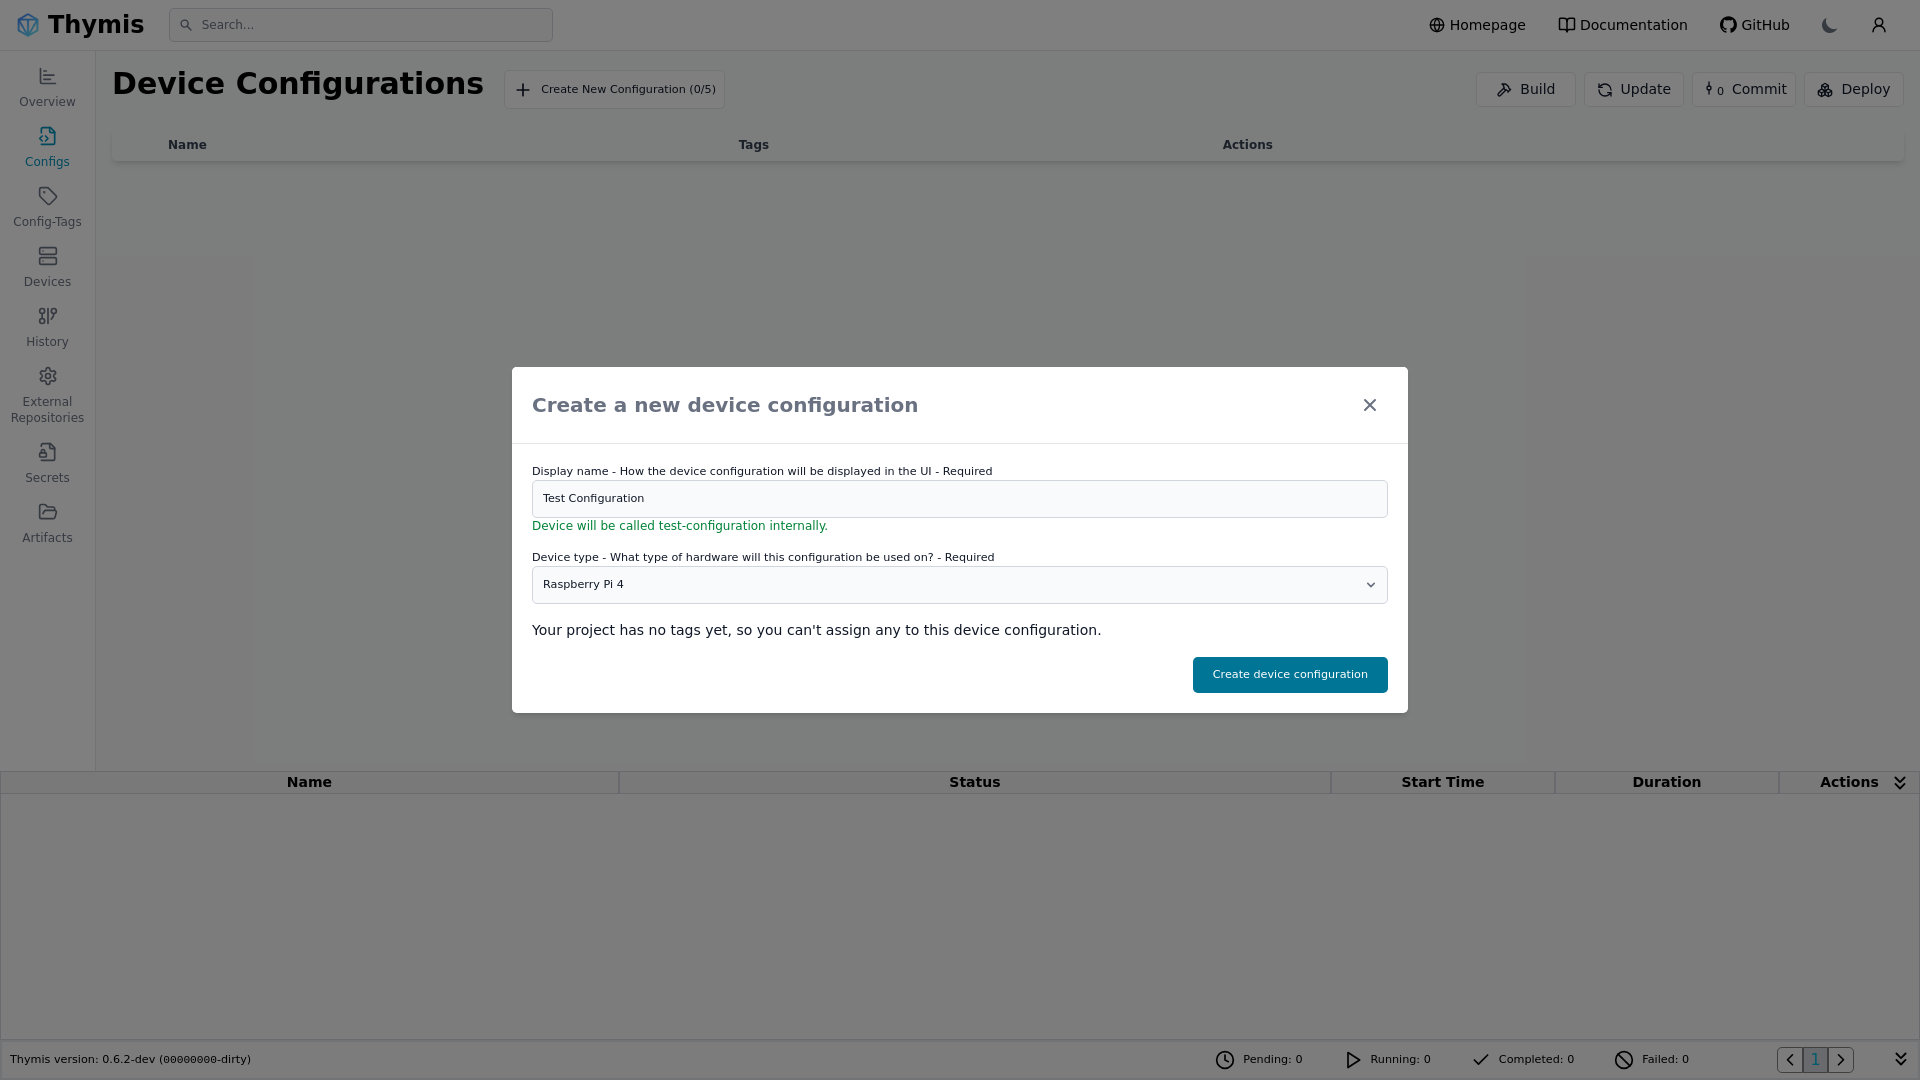
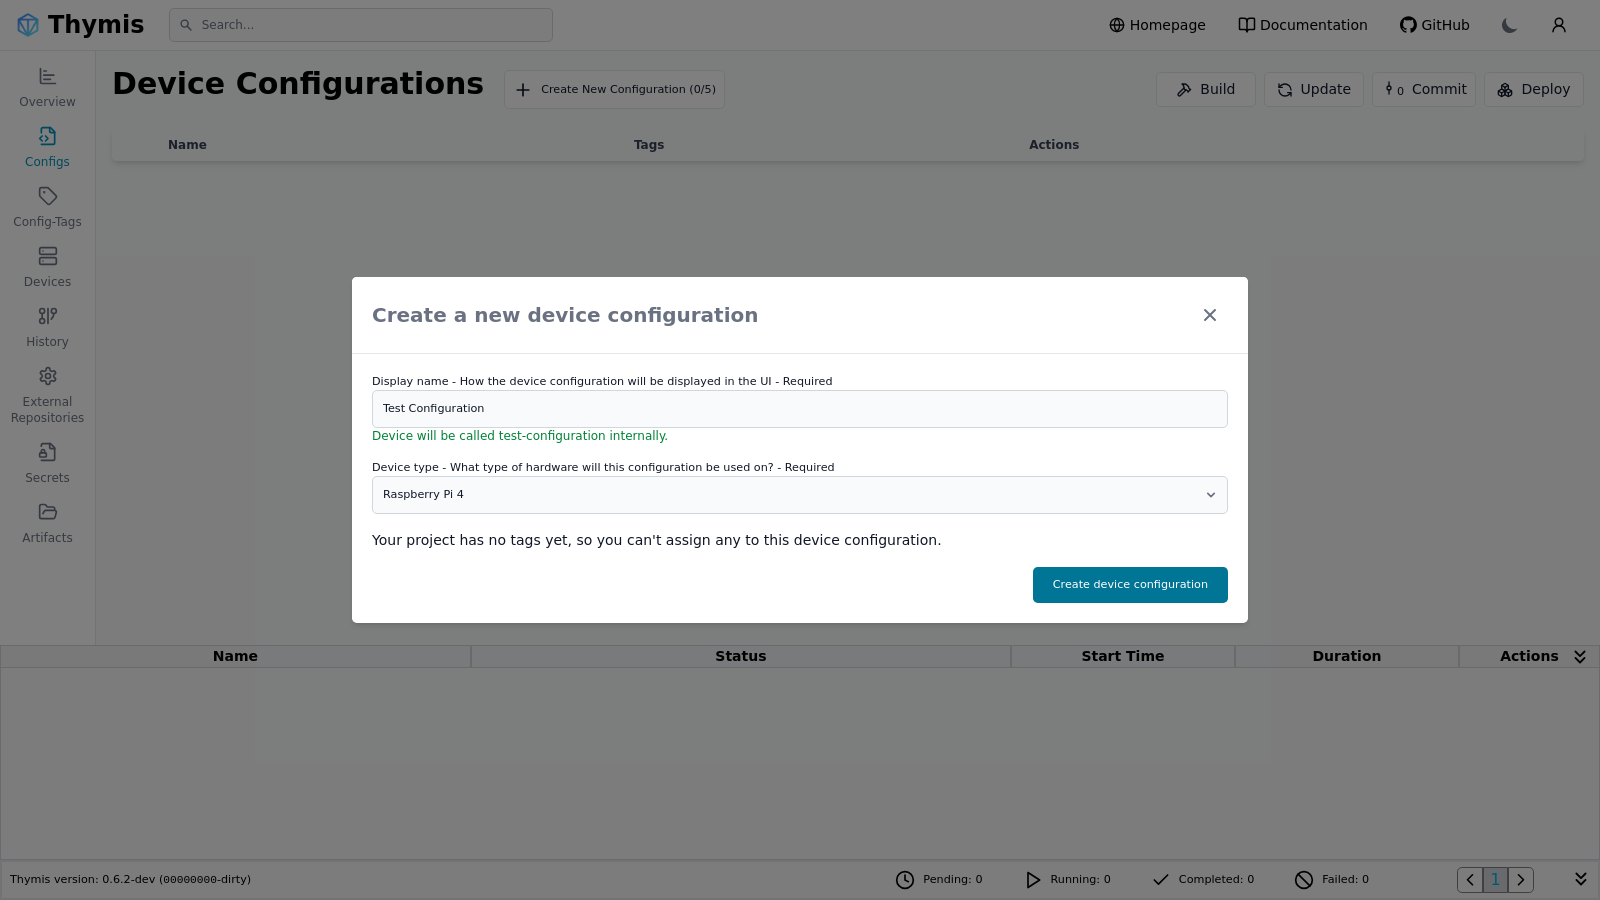
docs: add screenshots for device provisioning

diff --git a/frontend/tests/utils.ts b/frontend/tests/utils.ts
@@ -18,7 +18,7 @@ type MyHighlightOptions = {
 
 export const highlightLocator = async (
 	screenshotTarget: Page | Locator,
-	locator: Locator,
+	locator: Locator | Locator[],
 	options: Partial<MyHighlightOptions> = {}
 ) => {
 	const defaultOptions = {
@@ -28,61 +28,74 @@ export const highlightLocator = async (
 		marginScreenshot: 32
 	};
 	const myOptions: MyHighlightOptions = { ...defaultOptions, ...options };
-	const boundingBox = await locator.boundingBox();
-	if (!boundingBox) {
-		console.warn(`Bounding box not found for locator: ${locator}`);
-		return myOptions.screenshotHighlightedElement ? locator : screenshotTarget;
-	}
-	if (myOptions.marginScreenshot && !myOptions.screenshotHighlightedElement) {
-		console.warn('marginScreenshot is only used when screenshotHighlightedElement is true');
-	}
-	if (
-		myOptions.screenshotHighlightedElement &&
-		myOptions.marginHighlight &&
-		myOptions.marginScreenshot &&
-		myOptions.marginHighlight > myOptions.marginScreenshot
-	) {
-		console.warn(
-			'marginHighlight should be smaller than or equal to marginScreenshot, otherwise the screenshot will be cropped without the highlight'
-		);
-	}
-	// add element with marginally bigger size
-	const page = 'page' in screenshotTarget ? screenshotTarget.page() : screenshotTarget;
-	if (myOptions.highlight) {
-		page.evaluate(`
-		const highlightDiv = document.createElement('div');
-		highlightDiv.className = 'playwright-highlight';
-		highlightDiv.style.position = 'absolute';
-		highlightDiv.style.border = '2px solid red';
-		highlightDiv.style.top = '${boundingBox.y - myOptions.marginHighlight!}px';
-		highlightDiv.style.left = '${boundingBox.x - myOptions.marginHighlight!}px';
-		highlightDiv.style.width = '${boundingBox.width + 2 * myOptions.marginHighlight!}px';
-		highlightDiv.style.height = '${boundingBox.height + 2 * myOptions.marginHighlight!}px';
-		highlightDiv.style.zIndex = '999999';
-		document.body.appendChild(highlightDiv);
-	`);
-	}
-	if (myOptions.screenshotHighlightedElement) {
-		const myId = Math.random().toString(36).substring(7);
-		// Make a new div with the same size as the bounding box, and take a screenshot of that
-		await page.evaluate(
-			`
-		const screenshotDiv = document.createElement('div');
-		screenshotDiv.id = '${myId}';
-		screenshotDiv.className = 'playwright-highlight';
-		screenshotDiv.style.position = 'absolute';
-		screenshotDiv.style.top = '${boundingBox.y - myOptions.marginScreenshot!}px';
-		screenshotDiv.style.left = '${boundingBox.x - myOptions.marginScreenshot!}px';
-		screenshotDiv.style.width = '${boundingBox.width + 2 * myOptions.marginScreenshot!}px';
-		screenshotDiv.style.height = '${boundingBox.height + 2 * myOptions.marginScreenshot!}px';
-		screenshotDiv.style.zIndex = '999999';
-		document.body.appendChild(screenshotDiv);
-	`
-		);
 
-		return page.locator(`#${myId}`);
+	let locators: Locator[] = [];
+	if (Array.isArray(locator)) {
+		locators = locator;
+	} else {
+		locators = [locator];
 	}
-	return myOptions.screenshotHighlightedElement ? locator : screenshotTarget;
+
+	for (const locator of locators) {
+		const boundingBox = await locator.boundingBox();
+		if (!boundingBox) {
+			console.warn(`Bounding box not found for locator: ${locator}`);
+			return myOptions.screenshotHighlightedElement ? locator : screenshotTarget;
+		}
+		if (myOptions.marginScreenshot && !myOptions.screenshotHighlightedElement) {
+			console.warn('marginScreenshot is only used when screenshotHighlightedElement is true');
+		}
+		if (
+			myOptions.screenshotHighlightedElement &&
+			myOptions.marginHighlight &&
+			myOptions.marginScreenshot &&
+			myOptions.marginHighlight > myOptions.marginScreenshot
+		) {
+			console.warn(
+				'marginHighlight should be smaller than or equal to marginScreenshot, otherwise the screenshot will be cropped without the highlight'
+			);
+		}
+		// add element with marginally bigger size
+		const page = 'page' in screenshotTarget ? screenshotTarget.page() : screenshotTarget;
+		if (myOptions.highlight) {
+			page.evaluate(`
+				const highlightDiv = document.createElement('div');
+				highlightDiv.className = 'playwright-highlight';
+				highlightDiv.style.position = 'absolute';
+				highlightDiv.style.border = '2px solid red';
+				highlightDiv.style.top = '${boundingBox.y - myOptions.marginHighlight!}px';
+				highlightDiv.style.left = '${boundingBox.x - myOptions.marginHighlight!}px';
+				highlightDiv.style.width = '${boundingBox.width + 2 * myOptions.marginHighlight!}px';
+				highlightDiv.style.height = '${boundingBox.height + 2 * myOptions.marginHighlight!}px';
+				highlightDiv.style.zIndex = '999999';
+				document.body.appendChild(highlightDiv);
+			`);
+		}
+		if (myOptions.screenshotHighlightedElement) {
+			const myId = Math.random().toString(36).substring(7);
+			// Make a new div with the same size as the bounding box, and take a screenshot of that
+			await page.evaluate(`
+				const screenshotDiv = document.createElement('div');
+				screenshotDiv.id = '${myId}';
+				screenshotDiv.className = 'playwright-highlight';
+				screenshotDiv.style.position = 'absolute';
+				screenshotDiv.style.top = '${boundingBox.y - myOptions.marginScreenshot!}px';
+				screenshotDiv.style.left = '${boundingBox.x - myOptions.marginScreenshot!}px';
+				screenshotDiv.style.width = '${boundingBox.width + 2 * myOptions.marginScreenshot!}px';
+				screenshotDiv.style.height = '${boundingBox.height + 2 * myOptions.marginScreenshot!}px';
+				screenshotDiv.style.zIndex = '999999';
+				document.body.appendChild(screenshotDiv);
+			`);
+
+			return page.locator(`#${myId}`);
+		}
+	}
+
+	if (myOptions.screenshotHighlightedElement) {
+		return Array.isArray(locator) ? locator[0] : locator;
+	} else {
+		return screenshotTarget;
+	}
 };
 
 export const unhighlightAll = async (screenshotTarget: Page | Locator) => {
@@ -124,7 +137,7 @@ export const expectScreenshot = async (
 
 export const expectScreenshotWithHighlight = async (
 	screenshotTarget: Page | Locator,
-	highlightedElement: Locator,
+	highlightedElement: Locator | Locator[],
 	testInfo: TestInfo,
 	counter: { count: number },
 	options?: PageAssertionsToHaveScreenshotOptions,

diff --git a/frontend/tests/tutorials.spec.ts b/frontend/tests/tutorials.spec.ts
@@ -19,6 +19,8 @@ test('initial device provisioning', async ({ page, request }, testInfo) => {
 	const screenshotCounter = { count: 0 };
 	const configName = 'Test Configuration';
 
+	page.setViewportSize({ width: 1600, height: 900 });
+
 	await clearState(page, request);
 	await deleteAllTasks(page, request);
 
@@ -51,6 +53,44 @@ test('initial device provisioning', async ({ page, request }, testInfo) => {
 	await expectScreenshotWithHighlight(
 		page,
 		configureButton,
+		testInfo,
+		screenshotCounter,
+		screenshotOptions
+	);
+
+	await configureButton.click();
+	await page.waitForURL('/configuration/edit*');
+
+	const wifiSSID = page.locator('p', { hasText: 'WiFi SSID' }).first();
+	await wifiSSID.hover();
+	await page.mouse.wheel(0, 50);
+
+	const wifiSSIDInput = wifiSSID.locator('..').locator('input').first();
+	const wifiPassword = page
+		.locator('p', { hasText: 'WiFi Password' })
+		.locator('..')
+		.locator('input')
+		.first();
+
+	await expectScreenshotWithHighlight(
+		page,
+		[wifiSSIDInput, wifiPassword],
+		testInfo,
+		screenshotCounter,
+		screenshotOptions
+	);
+
+	await wifiSSIDInput.fill('MyWifi');
+	await wifiPassword.fill('MyPassword');
+	await wifiPassword.blur();
+
+	await expectScreenshot(page, testInfo, screenshotCounter, screenshotOptions);
+
+	const saveConfigButton = page.locator('button').filter({ hasText: 'Download Device Image' });
+	await page.mouse.wheel(0, -500);
+	await expectScreenshotWithHighlight(
+		page,
+		saveConfigButton,
 		testInfo,
 		screenshotCounter,
 		screenshotOptions

diff --git a/docs/src/lib/docs/device-lifecycle/getting-started.md b/docs/src/lib/docs/device-lifecycle/getting-started.md
@@ -1,8 +1,30 @@
 # Getting started: From Nothing to First Device
 
-In this tutorial we will cover how to provision a Raspberry Pi.
+In this tutorial we will cover how to provision a Raspberry Pi, setup WiFi settings and flash the device.
+
+## Create a new Configuration
+
+Navigate to the **Config** page and click the **Create Device Configuration button at the top**.
 
 ![Config Page](./Color-scheme-light-initial-device-provisioning-1-linux.png)
-![Config Page](./Color-scheme-light-initial-device-provisioning-1-linux.png)
-![Config Page](./Color-scheme-light-initial-device-provisioning-1-linux.png)
-![Config Page](./Color-scheme-light-initial-device-provisioning-1-linux.png)
+
+A dialog will appear where you can enter a name for the configuration and select the appropriate hardware type.
+
+![Config Page](./Color-scheme-light-initial-device-provisioning-2-linux.png)
+
+Once you click **Create Device Configuration**, the new configuration will be added to the list.
+Select **Configure** to open the settings.
+
+![Config Page](./Color-scheme-light-initial-device-provisioning-3-linux.png)
+
+## Setting up WiFi
+
+On the Core Device Settings we can set the WiFi SSID and Password.
+
+![Config Page](./Color-scheme-light-initial-device-provisioning-4-linux.png)
+
+![Config Page](./Color-scheme-light-initial-device-provisioning-5-linux.png)
+
+## Downloading the System Image
+
+![Config Page](./Color-scheme-light-initial-device-provisioning-6-linux.png)
